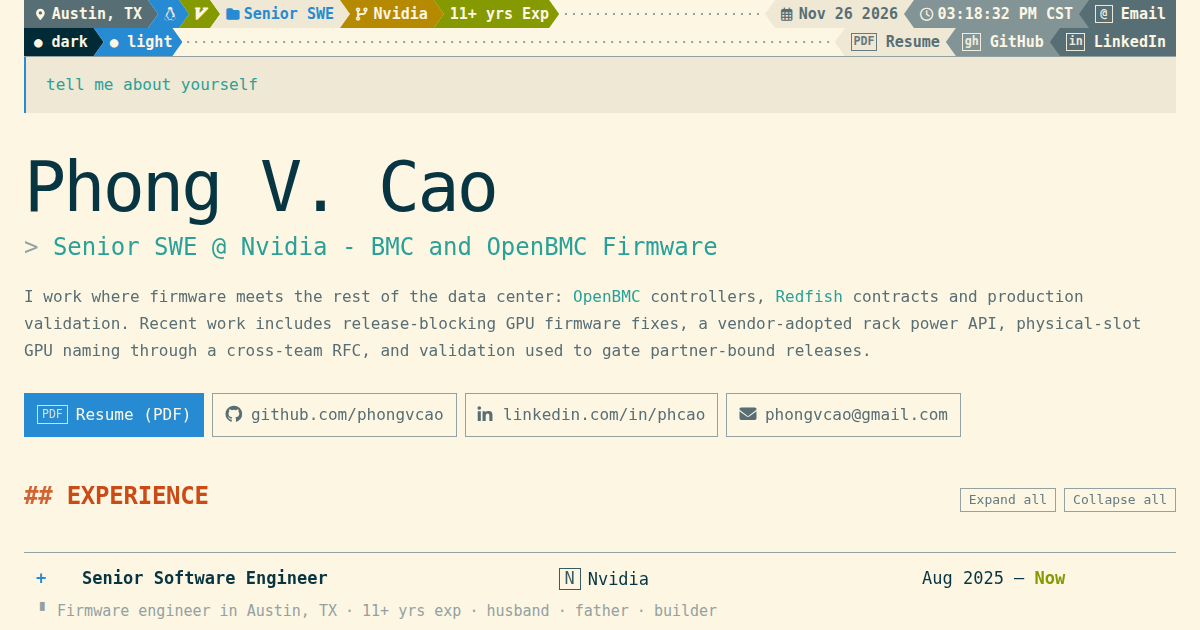
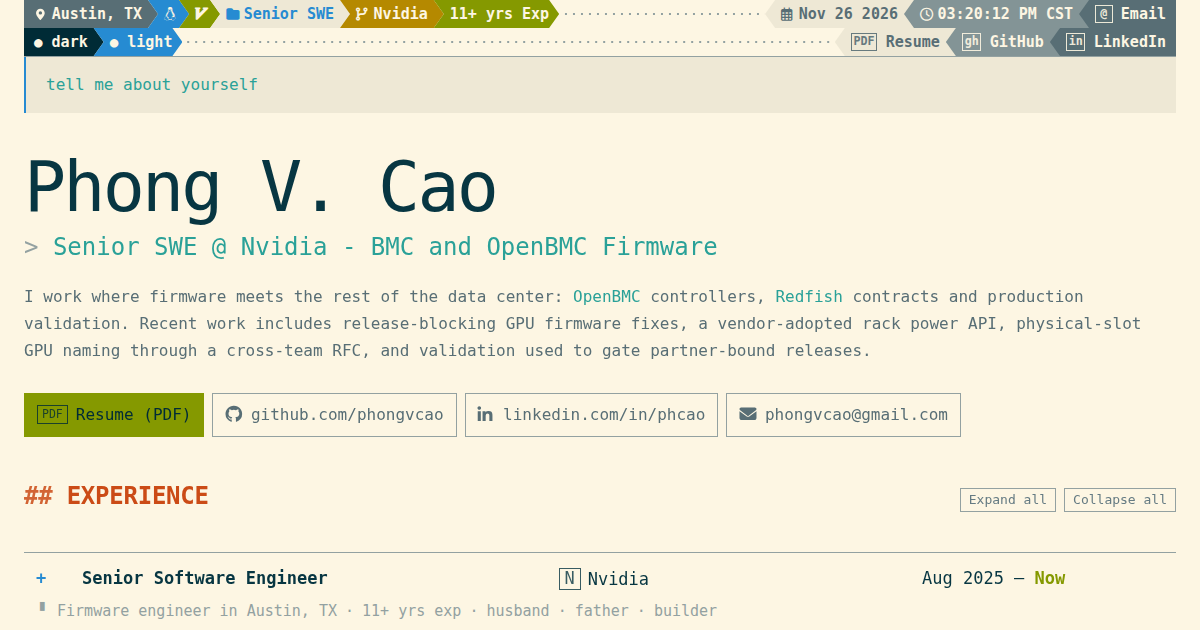
site: Resume leads the row in Solarized green
The same #859900 as the powerline segments, with the darkest ink on it: 4.69:1 in both themes.

Changed region(s): [[0.0, 0.6032, 0.185, 0.6937], [0.8017, 0.0, 0.8325, 0.0302]]

diff --git a/styles.css b/styles.css
@@ -246,15 +246,16 @@ code {
 }
 
 .button-primary {
-  border-color: var(--vim-blue-link);
-  background: var(--vim-blue-link);
-  color: var(--base03);
+  border-color: var(--green);
+  background: var(--green);
+  color: #002b36;
 }
 
 .button-primary:hover {
-  border-color: var(--blue-bright);
-  background: var(--blue-bright);
-  color: var(--base03);
+  border-color: var(--green);
+  background: var(--green);
+  color: #002b36;
+  filter: brightness(1.12);
 }
 
 .bracket {
